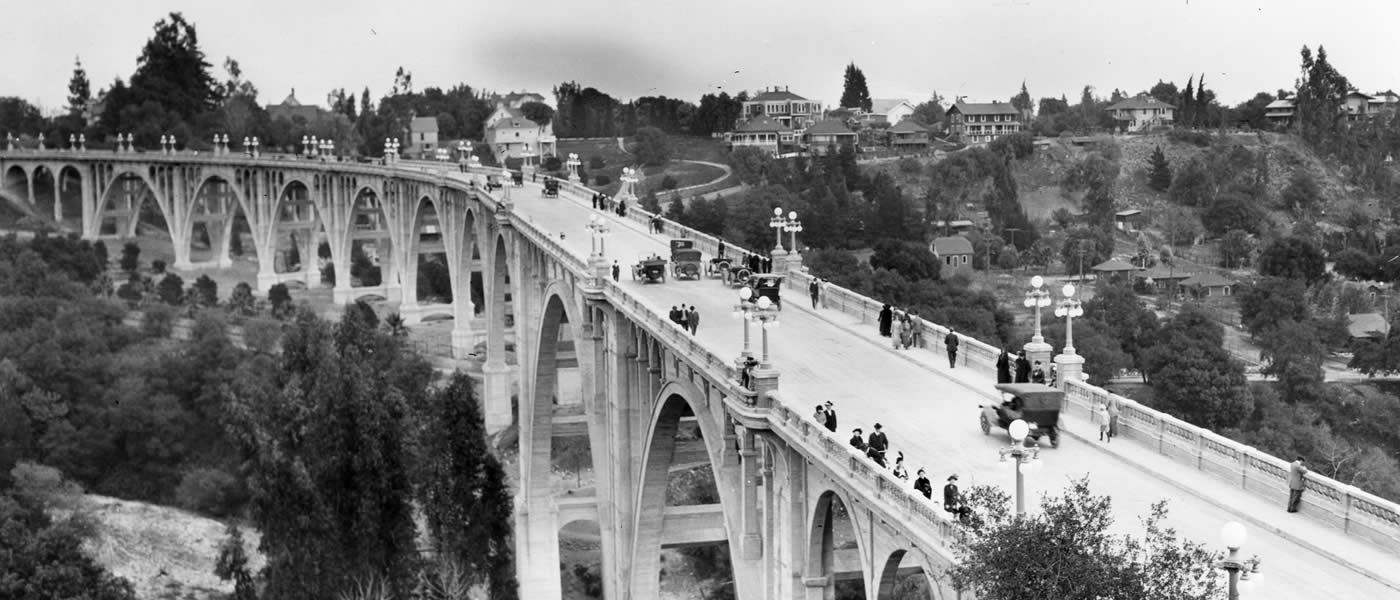
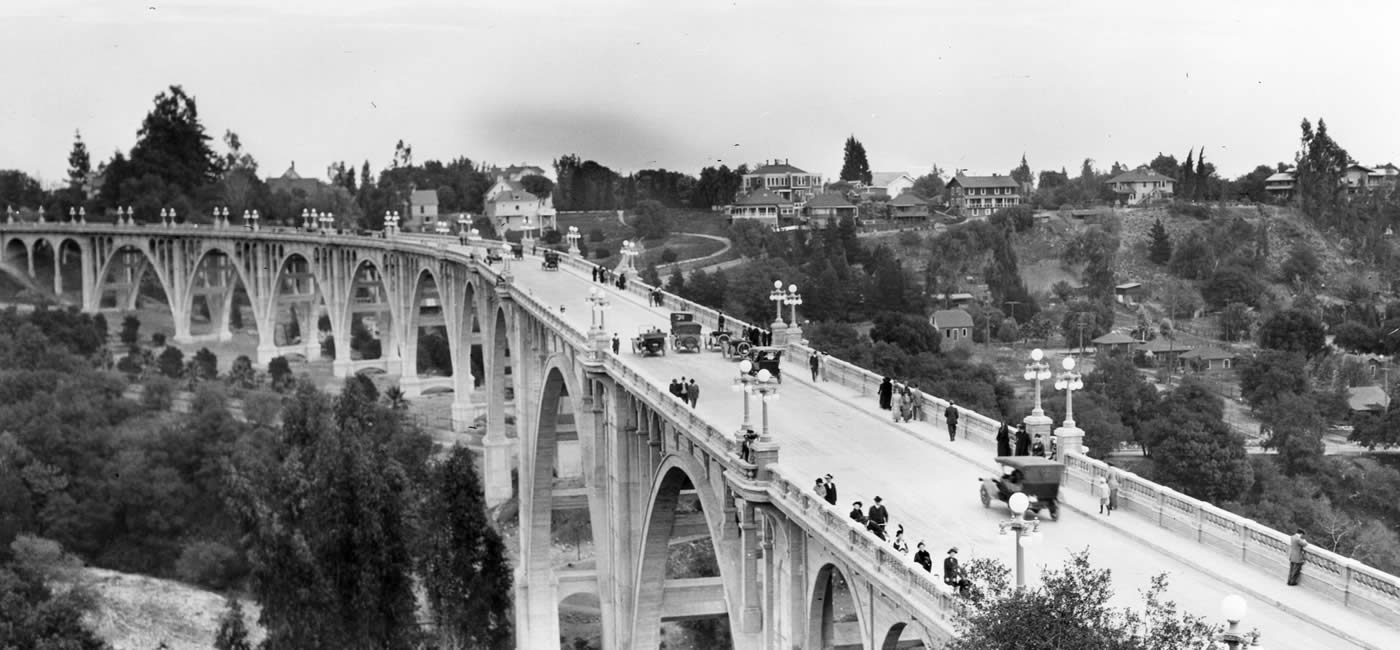
update 3 main homepage images; adjust size of heading

diff --git a/app/styles/_home.scss b/app/styles/_home.scss
@@ -23,6 +23,7 @@
 	margin: 0 0 $layout-container-margin-xs 0;
 	background-image: url("/images/homepage/colorado-street-bridge_650x300.jpg");
 	background-size: cover;
+	background-position: 0 -15px;
 
 	@include bp(sm-screen) {
     background-image: url("/images/homepage/colorado-street-bridge_900x400.jpg");
@@ -51,7 +52,7 @@
 
   @include bp(md-screen) {
     padding: 30px 10px 100px 10px;
-    font-size: 2.9em;
+    font-size: 3em;
   }
 
 }
